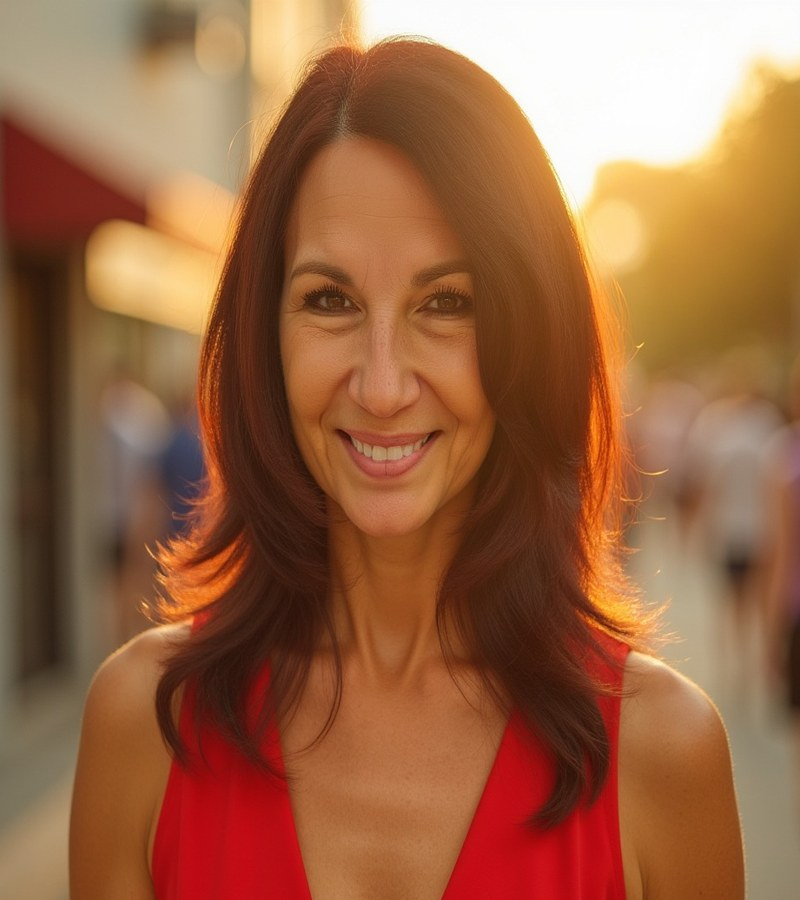
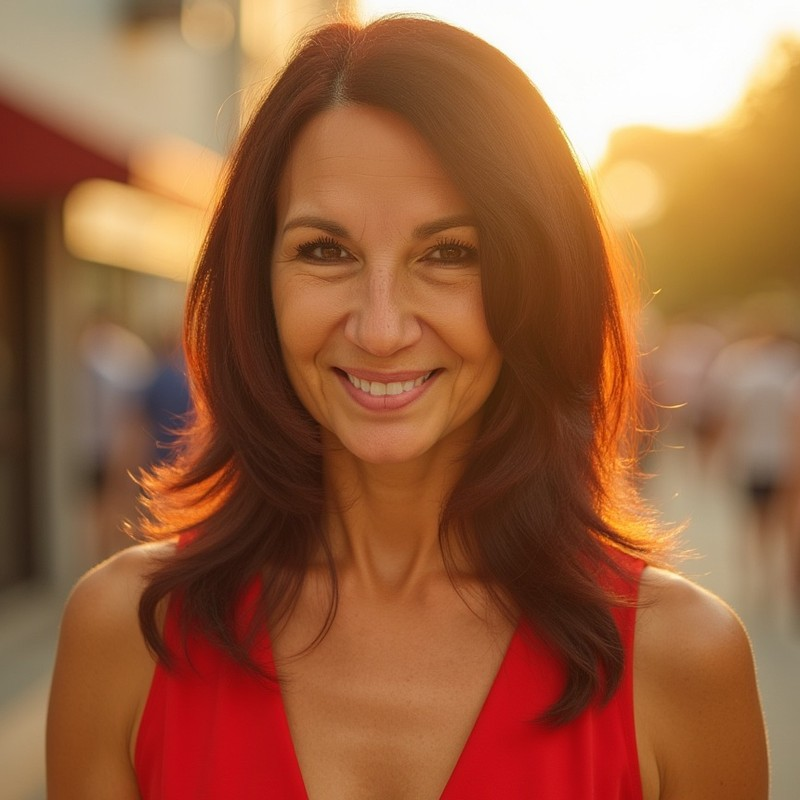
updated image

diff --git a/index.html b/index.html
@@ -85,7 +85,9 @@
                 <img
                   src="images/renee-about.jpg"
                   alt="Renée Bulwin, founder of Bleed Into Purpose"
-                  style="width:100%;height:100%;object-fit:cover;object-position:center top;"
+                  width="800"
+                  height="800"
+                  style="width:100%;height:100%;object-fit:cover;object-position:center 10%;display:block;"
                 >
               </div>
             </div>